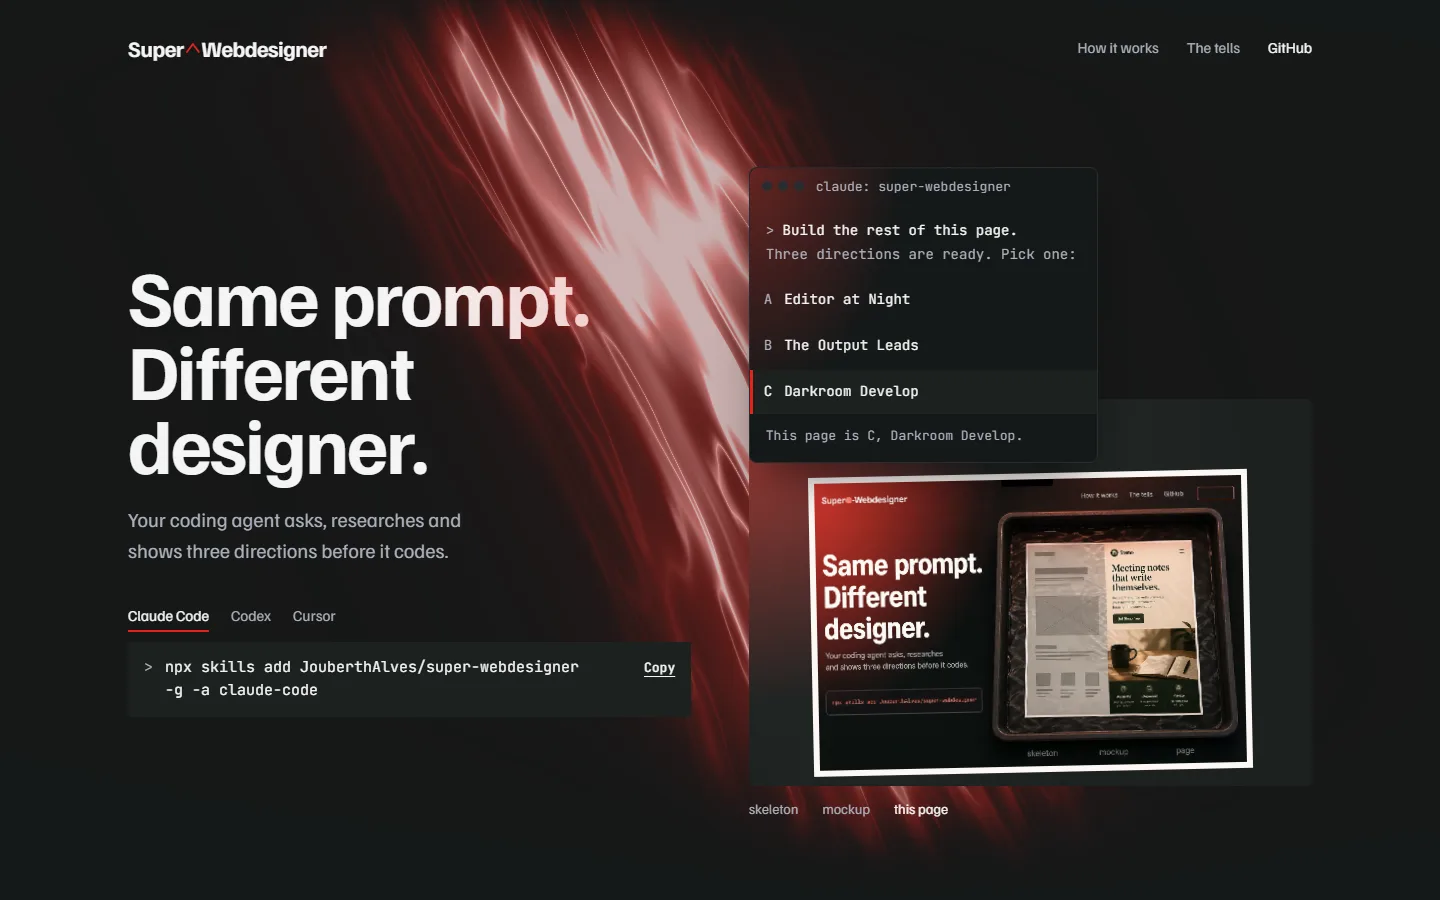
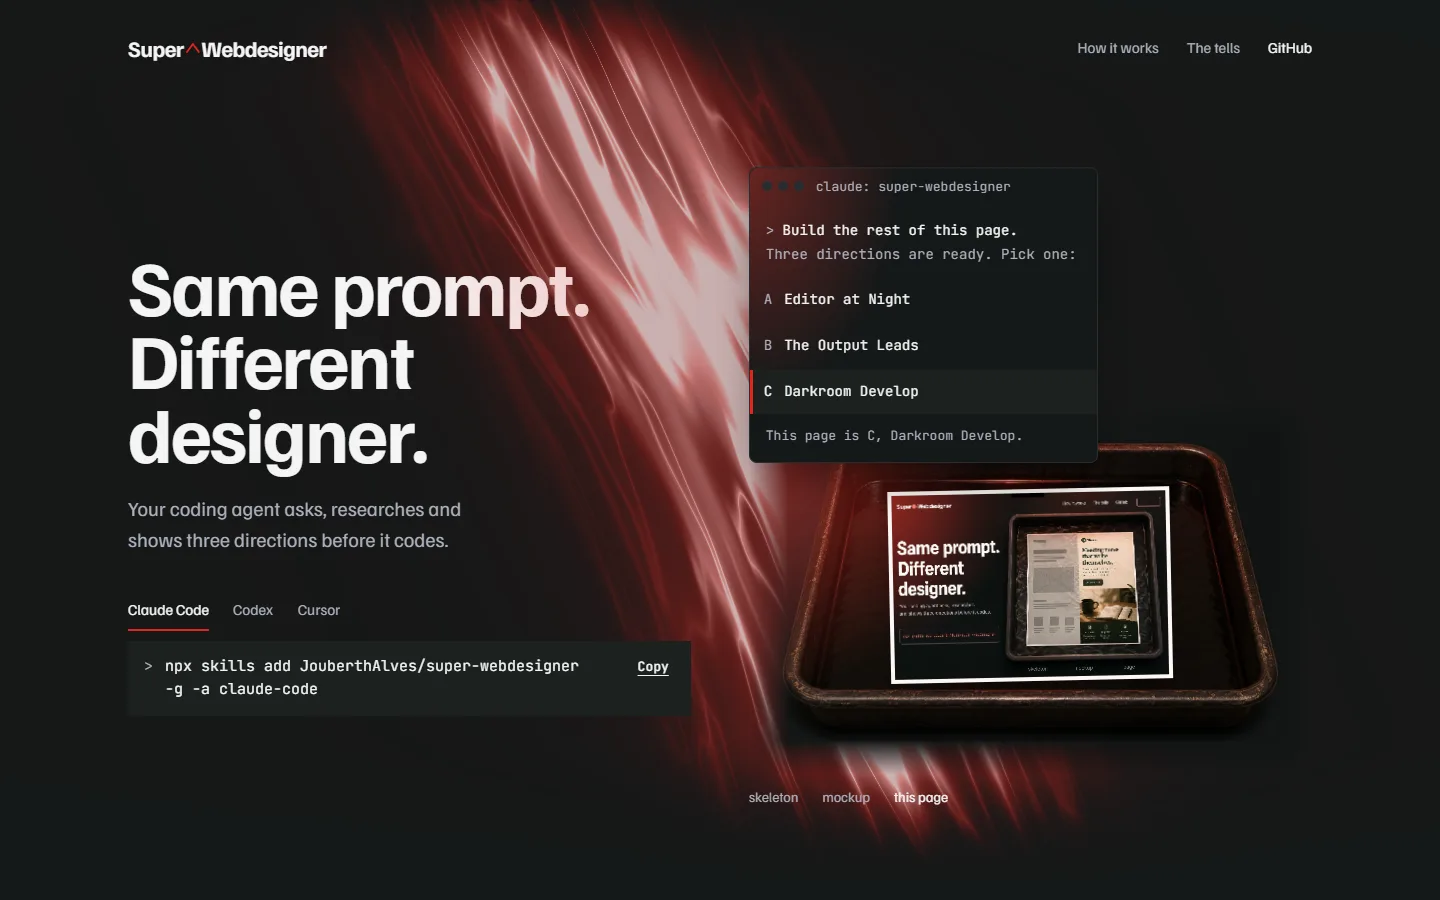
updated: the hero's developing tray is a photograph
The CSS-drawn tray read as a grey card. It is now a tray generated in
Magnific (GPT 2, two takes, 360 credits; take 2 used, take 1 kept in design/),
its plain edges masked into the page so the pillar never shows a box behind
it. The print stays HTML and floats in the liquid, so the develop and the
three looks still work.

Changed region(s): [[0.0938, 0.0, 0.9062, 0.9333], [0.0938, 0.6533, 0.4062, 0.7778], [0.4375, 0.7156, 0.4688, 0.7467]]

diff --git a/site/styles.css b/site/styles.css
@@ -281,15 +281,20 @@ h1 br.d { display: none; }
 .tray {
   position: relative;
   overflow: hidden;
-  aspect-ratio: 16 / 11;
-  background: var(--tray);
-  border-radius: 6px;
+  aspect-ratio: 3 / 2;
+  /* A photographed developing tray (Magnific); its plain edges fade into the page so the pillar never shows a box behind it */
+  background: url("img/tray.webp") center / cover no-repeat;
+  -webkit-mask-image: linear-gradient(to right, transparent, var(--mask-on) 7%, var(--mask-on) 93%, transparent), linear-gradient(transparent, var(--mask-on) 9%, var(--mask-on) 91%, transparent);
+  -webkit-mask-composite: source-in;
+  mask-image: linear-gradient(to right, transparent, var(--mask-on) 7%, var(--mask-on) 93%, transparent), linear-gradient(transparent, var(--mask-on) 9%, var(--mask-on) 91%, transparent);
+  mask-composite: intersect;
 }
 .liquid {
   position: absolute;
   inset: -20%;
+  /* a faint sheen drifting over the photographed liquid */
   background: radial-gradient(circle at 35% 30%, var(--head), transparent 60%);
-  opacity: .04;
+  opacity: .03;
   animation: sheen 20s ease-in-out infinite alternate;
 }
 @keyframes sheen {
@@ -299,13 +304,14 @@ h1 br.d { display: none; }
 
 .print {
   position: absolute;
-  top: 50%;
-  left: 12%;
-  width: 76%;
+  top: 49.5%;
+  left: 50%;
+  width: 50%;
   aspect-ratio: 1600 / 1090;
-  border: 6px solid var(--print);
-  transform: translateY(-50%) rotate(-1.2deg);
+  border: 4px solid var(--print);
+  transform: translate(-50%, -50%) rotate(-1.2deg);
   background: var(--tray);
+  box-shadow: 0 14px 26px -12px var(--shadow);
 }
 .print img {
   position: absolute;
@@ -464,7 +470,6 @@ h1 br.d { display: none; }
 }
 
 @media (min-width: 960px) {
-  .print { top: 58%; left: 11%; width: 78%; }
 }
 .cmd-row .nb { white-space: nowrap; }
 

diff --git a/design/direction.md b/design/direction.md
@@ -59,7 +59,7 @@ the command and inside the agent window. Both OFL, self-hosted.
 - Type voice: quiet, patient, then the reveal.
 - Motion feel: slow develop, a living beam (lively, Stripe as the reference).
 
-**Imagery:** the real pages and files from `examples/`: skeletons, mockups,
+**Imagery:** the developing tray is a photograph generated in Magnific (`design/tray-2.webp`, 360 credits for two takes; take 1 kept beside it), its plain edges masked into the page; the print stays HTML on top. Elsewhere, the real pages and files from `examples/`: skeletons, mockups,
 final pages and the other agent's page for the same prompt. The pages the
 image model invented in the mockups never ship.
 
